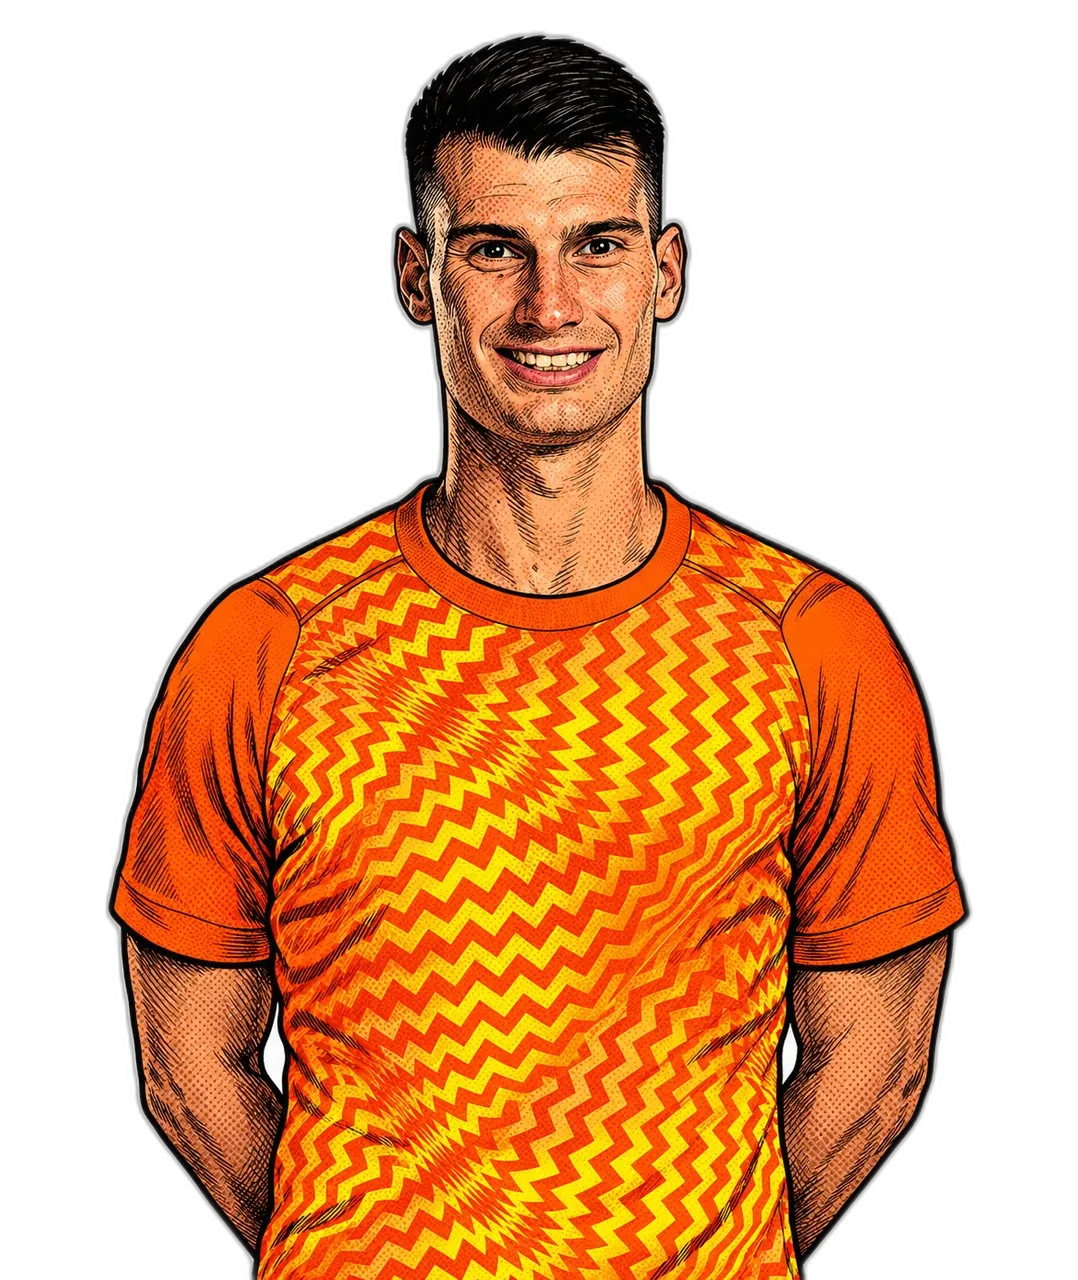
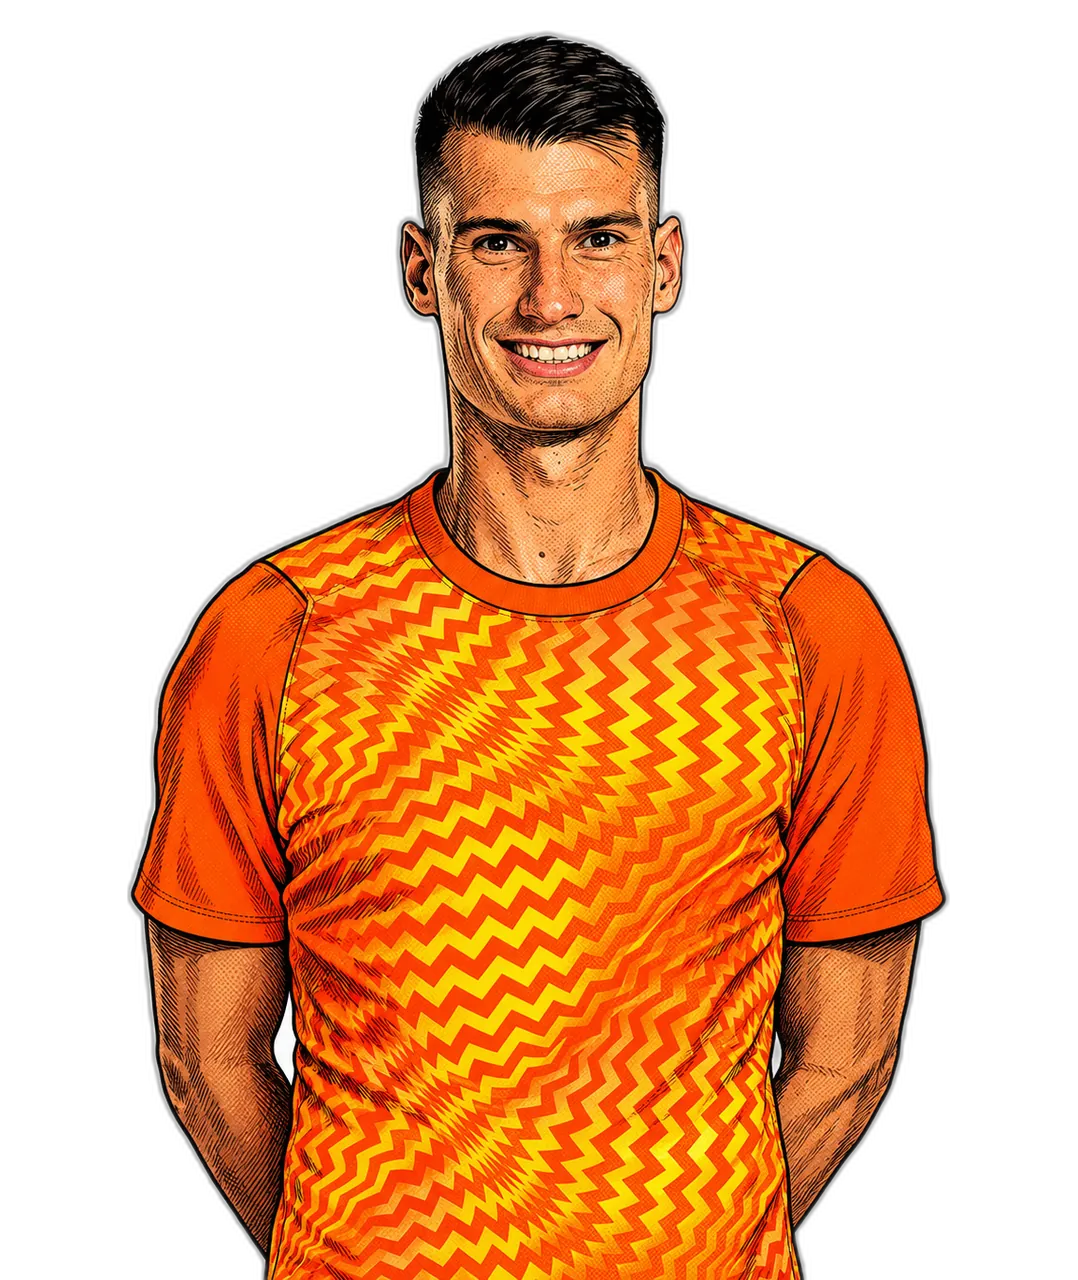
fix(images): keep each player's own pose and kit, short prompt
The long prompt imposed the references' hands-behind-back pose and their
25/26 home shirt on every player. Back to a short prompt modelled on the one
the hand-made set was made with: convert to comic style, change only the
drawing style, keep person, pose, framing and kit from the photo, remove
logos, no text. Style references stay (they give the hand-inked look).
Goalkeeper special case removed: keepers keep their own kit from the photo.
All 9 portraits regenerated and checked against their photos.

diff --git a/scripts/player_images.py b/scripts/player_images.py
@@ -9,9 +9,9 @@ Comic-style portraits for players who don't have one yet.
 Steps per player:
   1. source: the official portrait from fcbarcelona.com (first-team page og:image, a transparent cut-out),
      or an entry in scripts/player_images_sources.json for players without one (e.g. Barça Atlètic).
-  2. generate: local Codex CLI (its image tool) redraws the photo in the style of two existing portraits
-     (full + face close-ups, so it copies the pen work rather than filtering the photo),
-     keeping the likeness and removing every crest/sponsor/manufacturer mark.
+  2. generate: local Codex CLI (its image tool) converts the photo to comic style, hand-inked like two
+     existing portraits (full + face close-ups). Only the drawing style changes: person, pose, framing
+     and kit stay as in the photo; crests, sponsors and badges are removed.
   3. finish: rembg removes the background; the figure is placed like the existing images
      (1078x1280, bottom-aligned, centred) and saved as public/images/players/<slug>-profile.webp.
   4. review: a contact sheet (source | result) is written to .cache/player-images/review.png. Look at it.
@@ -41,20 +41,12 @@ SQUAD_URL = 'https://www.fcbarcelona.com/en/football/first-team/players'
 SITE = 'https://www.fcbarcelona.com'
 SIZE = (1078, 1280)   # every existing portrait
 TOP_MARGIN = 30       # head sits ~30px below the top edge in the existing set
-KIT_OUTFIELD = "FC Barcelona home shirt in the references' design (blue sleeves, red and blue vertical stripes with soft gradient)."
-KIT_KEEPER = "He is a goalkeeper: keep his goalkeeper shirt from image 1 (same colours and pattern), not the outfield kit."
 UA = 'Mozilla/5.0 (X11; Linux x86_64) AppleWebKit/537.36 (KHTML, like Gecko) Chrome/131.0 Safari/537.36'
 
-PROMPT = """Image 1 is a photo of a real footballer. Images 2-5 are from a series of illustrated player portraits (2 and 3 full portraits, 4 and 5 close-ups of their faces). Draw the footballer from image 1 as a new portrait in that series.
+PROMPT = """Convert image 1 into a comic book style, hand-inked like images 2-5 (2 and 3 full portraits, 4 and 5 face close-ups).
+Change only the drawing style. Keep everything else from image 1 exactly: the person, his pose, the framing and the kit.
+Remove all logos, crests, sponsors and badges. Do not add text. Plain white background.
 {hint}
-LIKENESS: instantly recognisable as the person in image 1: exact hair colour, hairstyle, eyes, nose, jaw, facial hair (or lack of it), skin tone, tattoos, age and expression. Do not change his hair colour, age him or generalise his face.
-
-ART STYLE, this is what matters most: it must look HAND-INKED, like the face close-ups (images 4 and 5), NOT like a filtered photograph. Heavy black ink cross-hatching for every shadow on the face, neck and arms; visible pen strokes across the skin; a thick black contour line around the head, hair and body; hair drawn as inked strands with black shadow areas; colour laid as flat warm tones with halftone dots, not photographic skin gradients; no photographic skin texture, pores or blemishes.
-
-POSE AND KIT (copy images 2 and 3): waist-up, centred, facing the viewer, hands clasped behind his back, head near the top edge, shirt reaching the bottom edge. {kit} Remove every logo and mark: no club crest, no sponsor, no manufacturer logo, no sleeve badge, no text, no numbers.
-
-BACKGROUND: plain solid white, nothing else. Portrait orientation, about 5:6.
-
 Use your image generation tool. Save the final image as ./{out} in the current directory."""
 
 
@@ -145,17 +137,15 @@ def fetch(url: str) -> bytes:
 
 
 def players_from_data():
-    """{name: is_goalkeeper} for every player in titans_data.ts."""
     s = TITANS.read_text(encoding='utf-8')
     data = json.loads(s[s.index('[', s.index('=')):s.rindex(']') + 1])
-    return {p['name']: p.get('position') in ('GK', 'Goalkeeper') for p in data}
+    return [p['name'] for p in data]
 
 
-def generate(src: Path, refs: list, workdir: Path, hint: str, keeper: bool) -> Path:
+def generate(src: Path, refs: list, workdir: Path, hint: str) -> Path:
     out = workdir / 'comic.png'
     out.unlink(missing_ok=True)
-    prompt = PROMPT.format(out=out.name, hint=f'\nWhich person: {hint}\n' if hint else '',
-                           kit=KIT_KEEPER if keeper else KIT_OUTFIELD)
+    prompt = PROMPT.format(out=out.name, hint=f'Note: {hint}\n' if hint else '')
     # -i takes several files, so the prompt goes on stdin (as an argument it is swallowed as an image).
     images = [arg for path in [src, *refs] for arg in ('-i', str(path))]
     run = subprocess.run(['codex', 'exec', '--skip-git-repo-check', '-s', 'workspace-write', '-C', str(workdir), *images],
@@ -166,7 +156,7 @@ def generate(src: Path, refs: list, workdir: Path, hint: str, keeper: bool) -> P
     return out
 
 
-def make(slug: str, keeper: bool, source: dict, refs: list, force: bool):
+def make(slug: str, source: dict, refs: list, force: bool):
     from PIL import Image
     from rembg import remove
     dest = PLAYERS_DIR / f'{slug}-profile.webp'
@@ -177,7 +167,7 @@ def make(slug: str, keeper: bool, source: dict, refs: list, force: bool):
     (wd / 'source_raw').write_bytes(fetch(source['url']))
     src = wd / 'source.png'
     prepare(Image.open(wd / 'source_raw')).save(src)
-    comic = generate(src, refs, wd, source.get('hint', ''), keeper)
+    comic = generate(src, refs, wd, source.get('hint', ''))
     final = place(remove(Image.open(comic).convert('RGBA')))
     cov = coverage(final)
     if not 0.15 <= cov <= 0.8:  # existing portraits: 22%-65%
@@ -242,8 +232,7 @@ def main():
     if args.force and not args.only:
         ap.error('--force needs --only: it would otherwise redraw every hand-made portrait')
 
-    roster = players_from_data()
-    names = {slugify(n): n for n in roster}
+    names = {slugify(n): n for n in players_from_data()}
     only = set(args.only.split(',')) if args.only else None
     todo = {s: n for s, n in names.items()
             if (only is None or s in only) and (args.force or not (PLAYERS_DIR / f'{s}-profile.webp').exists())}
@@ -276,7 +265,7 @@ def main():
 
     done = []
     with concurrent.futures.ThreadPoolExecutor(max_workers=max(1, args.jobs)) as pool:
-        futures = {pool.submit(make, s, roster[todo[s]], src, refs, args.force): s for s, src in sources.items()}
+        futures = {pool.submit(make, s, src, refs, args.force): s for s, src in sources.items()}
         for f in concurrent.futures.as_completed(futures):
             slug = futures[f]
             try:

diff --git a/scripts/test_player_images.py b/scripts/test_player_images.py
@@ -104,18 +104,15 @@ class Geometry(unittest.TestCase):
 
 
 class Prompt(unittest.TestCase):
-    def test_kit_rule_by_position(self):
-        keeper = P.PROMPT.format(out='x.png', hint='', kit=P.KIT_KEEPER)
-        outfield = P.PROMPT.format(out='x.png', hint='', kit=P.KIT_OUTFIELD)
-        self.assertIn('goalkeeper shirt from image 1', keeper)
-        self.assertNotIn('blue sleeves', keeper)
-        self.assertIn('blue sleeves', outfield)
-        self.assertIn('no sponsor', keeper)  # logos go either way
+    def test_only_the_style_changes(self):
+        prompt = P.PROMPT.format(out='x.png', hint='')
+        self.assertIn('Keep everything else from image 1 exactly', prompt)
+        self.assertIn('Remove all logos', prompt)
+        for forced in ('behind his back', 'blue sleeves', 'home shirt'):  # no pose or kit imposed
+            self.assertNotIn(forced, prompt)
 
-    def test_roster_flags_goalkeepers(self):
-        roster = P.players_from_data()
-        self.assertTrue(roster['Dominik Livaković'])
-        self.assertFalse(roster['Pedri'])
+    def test_hint_is_appended(self):
+        self.assertIn('Note: the one in orange', P.PROMPT.format(out='x.png', hint='Note: the one in orange\n'))
 
 
 class Cli(unittest.TestCase):

diff --git a/README.md b/README.md
@@ -55,7 +55,7 @@ npm run player-images -- --only rodri --force   # redo one
 npm run test:images                  # offline tests for the script
 ```
 
-[`scripts/player_images.py`](scripts/player_images.py) takes the official portrait from the player's fcbarcelona.com page, has the local **Codex CLI** redraw it in the style of an existing portrait (Pedri's) while keeping the likeness and removing every logo, cuts out the background with `rembg`, and places the figure like the rest of the set. It never overwrites an existing image without `--force`, and it writes a source-vs-result sheet to `.cache/player-images/review.png`: **look at it before committing**, because AI likeness can miss.
+[`scripts/player_images.py`](scripts/player_images.py) takes the official portrait from the player's fcbarcelona.com page, has the local **Codex CLI** convert it to comic style (hand-inked like two existing portraits) while keeping the person, pose and kit from the photo and removing every logo, cuts out the background with `rembg`, and places the figure like the rest of the set. It never overwrites an existing image without `--force`, and it writes a source-vs-result sheet to `.cache/player-images/review.png`: **look at it before committing**, because AI likeness can miss.
 
 Players without an official portrait (Barça Atlètic call-ups) need a photo in [`scripts/player_images_sources.json`](scripts/player_images_sources.json): a URL plus a `hint` saying which person in the photo is the player. Codex was chosen over Gemini (`agy`) after a side-by-side: Gemini kept the style but changed hair colour and faces. Needs `codex` logged in, plus Pillow and `rembg` (`pip install pillow rembg`).
 
